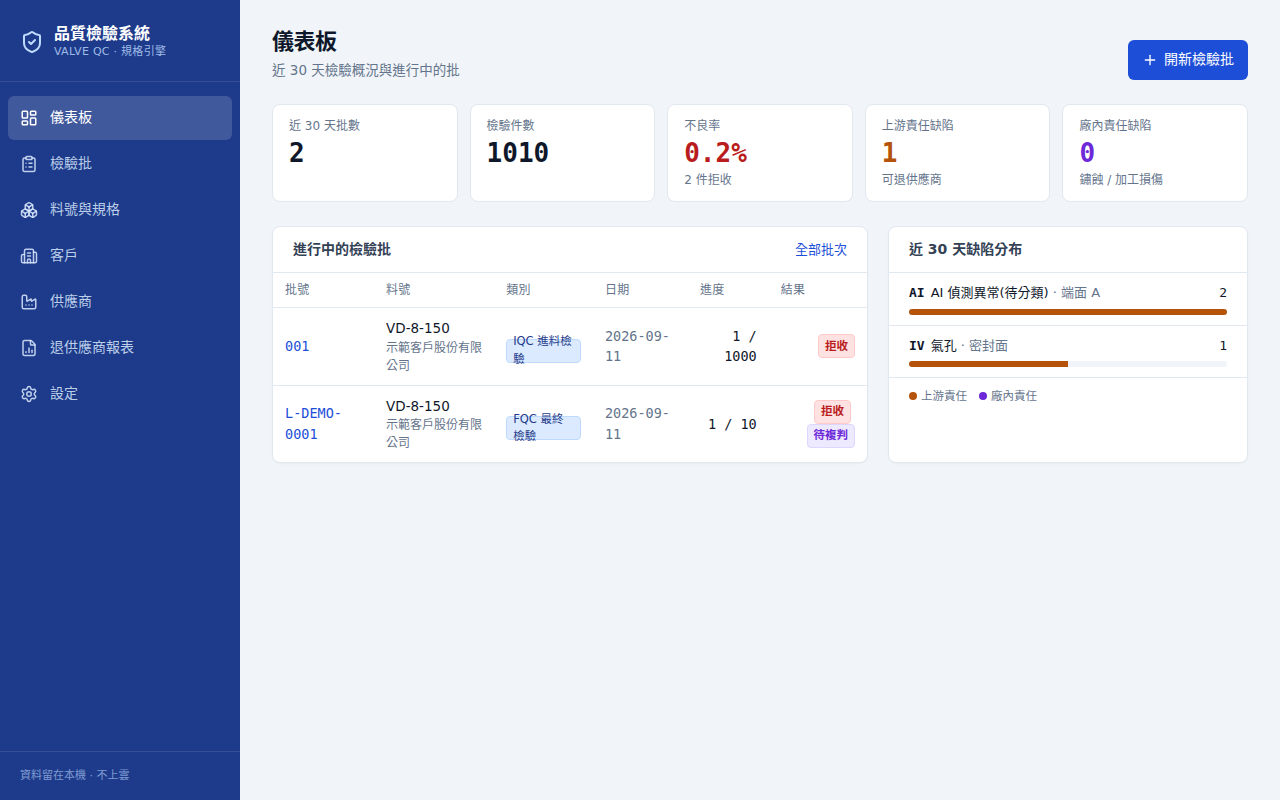
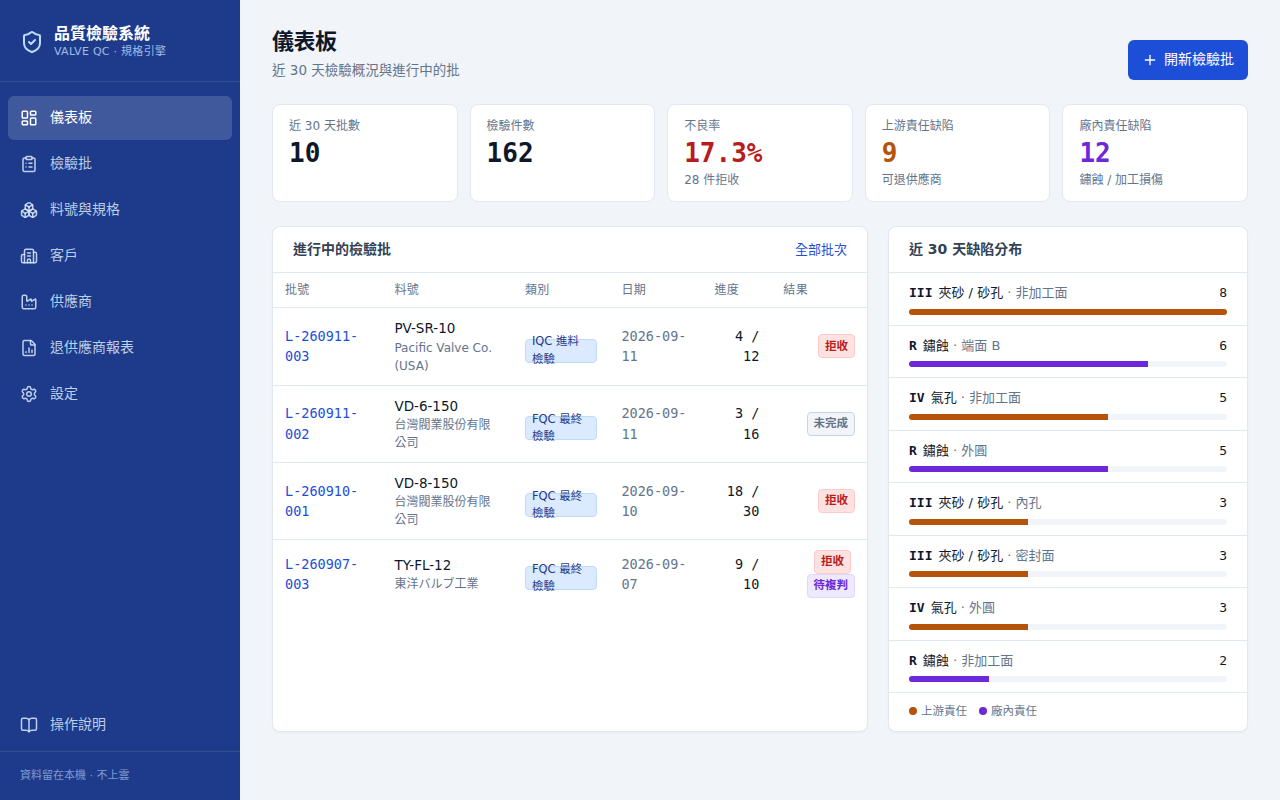
docs(qc-app): 操作說明改寫為真實現場案例走一遍(台灣閥業 8" 閥板 WO-2609-444 30 件 FQC),截圖全部換成示範資料實況
Claude-Session: https://claude.ai/code/session_01GxLmsYzhgxiYHRzKp9SBDz

diff --git a/qc-app/public/manual.html b/qc-app/public/manual.html
@@ -40,6 +40,9 @@
   .flow { display:flex; flex-wrap:wrap; gap:8px; align-items:center; margin:10px 0 }
   .flow span { background:var(--soft); color:var(--brand2); padding:8px 14px; border-radius:8px; font-weight:600 }
   .flow i { color:var(--ink3); font-style:normal }
+  .case { background:#fff7ed; border:1px solid #fed7aa; border-radius:12px; padding:18px 24px; margin:20px 0 }
+  .case h2 { color:#9a3412 } .case table td:first-child { color:var(--ink3); width:32% }
+  .say { border-left:4px solid var(--brand); background:#f8fafc; padding:8px 14px; margin:10px 0; color:var(--ink2); font-size:15px }
   footer { text-align:center; color:var(--ink3); font-size:13px; padding:20px }
   @media (max-width:640px){ section{padding:18px 16px} header{padding:28px 16px} main{padding:8px 12px 60px} }
 </style>
@@ -47,11 +50,11 @@
 <body>
 <header><div class="wrap">
   <h1>品質檢驗系統 操作說明</h1>
-  <p>閥門零件 · 規格引擎 + 檢驗紀錄 + 報告 · 資料留在本機</p>
+  <p>閥門零件 · 規格引擎 + 檢驗紀錄 + 報告 · 資料留在本機 · 以一批真實流程為例逐步說明</p>
 </div></header>
 
 <nav class="toc">
-  <a href="#overview">整體流程</a><a href="#s1">1 第一次使用</a><a href="#s2">2 建料號與規格</a><a href="#s3">3 開檢驗批</a><a href="#s4">4 量尺寸</a><a href="#wear">4.5 看趨勢(刀具磨耗)</a><a href="#s5">5 記外觀</a><a href="#s6">6 判定與結批</a><a href="#s7">7 出報告</a><a href="#s8">8 退供應商</a><a href="#ai">AI 檢測</a><a href="#faq">常見問題</a>
+  <a href="#overview">整體流程</a><a href="#case">本說明的案例</a><a href="#s1">1 第一次使用</a><a href="#s2">2 建料號與規格</a><a href="#s3">3 開檢驗批</a><a href="#s4">4 量尺寸</a><a href="#wear">4.5 看趨勢(刀具磨耗)</a><a href="#s5">5 記外觀</a><a href="#s6">6 判定與結批</a><a href="#s7">7 出報告</a><a href="#s8">8 退供應商</a><a href="#ai">AI 檢測</a><a href="#faq">常見問題</a>
 </nav>
 
 <main>
@@ -59,7 +62,7 @@
   <h2>整體流程</h2>
   <div class="flow"><span>建料號 + 規格</span><i>→</i><span>開檢驗批</span><i>→</i><span>量尺寸</span><i>→</i><span>記外觀</span><i>→</i><span>判定 / 結批</span><i>→</i><span>出報告</span></div>
   <p>左邊選單就是這幾個頁面。<b>料號與規格</b>每個料號只做一次;<b>檢驗批</b>每批做一次。</p>
-  <img class="shot" src="manual/01-dashboard.png" alt="儀表板"><div class="cap">儀表板:近 30 天概況、進行中的批、缺陷分布。</div>
+  <img class="shot" src="manual/01-dashboard.png" alt="儀表板"><div class="cap">儀表板:近 30 天概況、進行中的批、缺陷分布(橘 = 上游鑄造廠責任、紫 = 廠內責任)。</div>
   <h3>判定顏色</h3>
   <table><tr><th>標籤</th><th>意思</th></tr>
   <tr><td><span class="tag ok">允收</span></td><td>合格</td></tr>
@@ -69,70 +72,90 @@
   <tr><td><span class="tag pend">未完成</span></td><td>該量的尺寸還沒量完</td></tr></table>
 </section>
 
+<section id="case" class="case">
+  <h2>本說明的案例:9/10 早班,台灣閥業 8" 閥板 30 件出貨前全檢</h2>
+  <p>底下每一步都用這一批當例子,畫面截圖就是這批的實際狀態。</p>
+  <table>
+    <tr><td>客戶 / 料號</td><td>台灣閥業股份有限公司 · <b>VD-8-150</b> 8" 閥板 Class 150 · 圖面 Rev B · 材質 ASTM A216 WCB</td></tr>
+    <tr><td>鼎新工單 / 採購批</td><td>WO-2609-444 / PO-2608-32</td></tr>
+    <tr><td>毛胚</td><td>大甲鑄造廠 · 爐號 H26103C</td></tr>
+    <tr><td>數量 / 類別</td><td>30 件 · FQC 出貨前全檢</td></tr>
+    <tr><td>檢驗員</td><td>林志豪(車床 #3 加工完下線)</td></tr>
+    <tr><td>批號</td><td>系統自動編 <b>L-260910-001</b></td></tr>
+    <tr><td>這批發生的事</td><td>量到第 18 件:「總厚」整欄往上限飄、2 件超差(刀具磨耗);#3 內孔有 0.57mm 氣孔超過 0.5 上限;#17 非加工面夾砂 1.57mm 超過 1.5 上限 → 這兩件退大甲鑄造廠</td></tr>
+  </table>
+</section>
+
 <section id="s1">
   <h2><span class="n">1</span>第一次使用(只做一次)</h2>
   <div class="who">誰做:品管主管</div>
   <ol class="steps">
     <li>點左邊 <b>設定</b> → 填公司名稱、地址、電話 → 儲存。這會印在報告抬頭上。</li>
-    <li>點 <b>客戶</b> → 右邊「新增客戶」填代號(例如 C001)和名稱 → 新增。</li>
-    <li>點 <b>供應商</b> → 新增上游鑄造廠(退貨報表會依供應商分)。</li>
+    <li>點 <b>客戶</b> → 右邊「新增客戶」:代號 <code>C001</code>、名稱「台灣閥業股份有限公司」→ 新增。備註可以寫這家客戶的脾氣,例如「密封面鑄孔零容忍」。</li>
+    <li>點 <b>供應商</b> → 新增「大甲鑄造廠」「彰化精密鑄造」等上游鑄造廠(退貨報表會依供應商分)。</li>
   </ol>
   <img class="shot" src="manual/02-customers.png" alt="客戶"><div class="cap">客戶頁:左邊清單可直接改,右邊新增。</div>
 </section>
 
 <section id="s2">
   <h2><span class="n">2</span>建料號與允收標準(每個料號一次)</h2>
-  <div class="who">誰做:品管主管,拿著客戶圖面</div>
+  <div class="who">誰做:品管主管,拿著客戶圖面 DWG-VD-8-150 Rev B</div>
   <ol class="steps">
-    <li>點 <b>料號與規格</b> → 右上「新增料號」→ 填客戶、料號、品名、圖號版次、材質、吋數 → 建立。</li>
+    <li>點 <b>料號與規格</b> → 右上「新增料號」→ 客戶選台灣閥業、料號 <code>VD-8-150</code>、品名「8" 閥板 Class 150」、圖號 / 版次、材質、吋數 8 → 建立。</li>
     <li>進到料號頁 → 按「<b>建立第一版</b>」。</li>
-    <li><b>一、尺寸項次</b>:按「新增項次」,照圖面一項一項填:特性名稱、標稱、下公差、上公差、量具、頻率。<br>
-      <b>頻率</b>怎麼選:分厘卡 / 高度規 / 卡尺量的填「<b>每件</b>」;三次元量的填「<b>抽檢</b>」或「<b>首件</b>」。</li>
-    <li><b>二、外觀允收矩陣</b>:一開始全部是「拒收」。依客戶規範,把可以接受的格子勾「允許」,填尺寸上限(mm)和數量上限。<br>
-      例如「外圓 × IV 氣孔」勾允許、≤0.5、×2 = 外圓上 0.5mm 以下的氣孔最多 2 個可接受。<b>密封面通常全部留拒收。</b> → 儲存外觀矩陣。</li>
+    <li><b>一、尺寸項次</b>:按「新增項次」,照圖面一項一項填。以這個料號為例:<br>
+      項次 2「總厚」標稱 38.000、下公差 −0.100、上公差 +0.100、量具 <b>分厘卡</b>、頻率 <b>每件</b>、勾關鍵特性;<br>
+      項次 1「外徑」203.200 ±0.100、量具 <b>三次元</b>、頻率 <b>抽檢</b>;<br>
+      項次 5「軸孔直徑」32.000、下公差 0、上公差 +0.025(單邊)、量具 塞規、每件。<br>
+      <b>頻率</b>怎麼選:分厘卡 / 高度規 / 卡尺量的填「每件」;三次元量的填「抽檢」或「首件」。</li>
+    <li><b>二、外觀允收矩陣</b>:一開始全部是「拒收」。依台灣閥業的規範放寬:<br>
+      「外圓 / 端面 / 內孔 × III 夾砂、IV 氣孔」勾允許、≤ <b>0.5</b> mm、× <b>2</b> 個;<br>
+      「非加工面 × III / IV」允許、≤ <b>1.5</b> mm、× 5;<br>
+      「密封面」整欄留拒收 → 儲存外觀矩陣。</li>
     <li>右上按「<b>生效此版本</b>」。生效後就鎖住不能改。</li>
   </ol>
-  <img class="shot" src="manual/05-spec.png" alt="規格頁"><div class="cap">規格頁:上面尺寸項次,中間外觀矩陣(紅=拒收、綠=允許及上限)。</div>
-  <div class="note"><b>規格要改怎麼辦?</b> 回料號頁按「以現行版本開新版」→ 系統複製一份新草稿 → 改 → 生效。舊的批仍然用舊版判定,報告永遠對得上。</div>
+  <img class="shot" src="manual/05-spec.png" alt="規格頁"><div class="cap">VD-8-150 規格 v2(生效中):上面 13 個尺寸項次,中間外觀矩陣(紅 = 拒收、綠 = 允許及上限)。</div>
+  <img class="shot" src="manual/04-part.png" alt="料號頁"><div class="cap">料號頁的版本歷史:v1 已停用、v2 生效中。8 月客戶圖面改 Rev B 收緊總厚公差,就是「開新版 → 改 → 生效」做的。</div>
+  <div class="note"><b>規格要改怎麼辦?</b> 回料號頁按「以現行版本開新版」→ 系統複製一份新草稿 → 改 → 生效。8 月之前的批仍然用 v1 判定,報告永遠對得上。</div>
   <div class="tip"><b>提示:</b>外觀矩陣不用一次填完 84 格。先認真定「III 夾砂、IV 氣孔、R 鏽蝕」在各區域的上限,其他留拒收。沒定義到的情況系統會標「待複判」由人判,之後再開新版補進去。</div>
 </section>
 
 <section id="s3">
   <h2><span class="n">3</span>開檢驗批(每批一次)</h2>
-  <div class="who">誰做:檢驗員</div>
+  <div class="who">誰做:檢驗員林志豪,車床 #3 下線後</div>
   <ol class="steps">
     <li>點 <b>檢驗批</b> → 右上「開新檢驗批」。</li>
-    <li>選料號、檢驗類別(出貨前全檢選 <b>FQC</b>)、數量。</li>
-    <li>填鼎新工單號、採購批號、毛胚供應商、爐號、檢驗員(之後報告和退貨都靠這些)。</li>
-    <li>按「建立批並開始檢驗」。</li>
+    <li>料號選 <code>C001 · VD-8-150</code>、類別 <b>FQC 最終檢驗</b>、數量 <b>30</b>。</li>
+    <li>從鼎新工單抄:工單號 <code>WO-2609-444</code>、採購批 <code>PO-2608-32</code>;毛胚供應商選大甲鑄造廠、爐號 <code>H26103C</code>(看鑄件上的爐號打印或材證);檢驗員填自己。</li>
+    <li>批號留空 → 系統自動編 <b>L-260910-001</b>(L-年月日-流水號)。按「建立批並開始檢驗」。</li>
   </ol>
-  <img class="shot" src="manual/06-lot-new.png" alt="開新檢驗批">
-  <div class="tip"><b>擺件:</b>零件依序排好,#1 ~ #N 對應實體順序,量到一半才不會亂。有刻字的可以在件面板填序號。</div>
+  <img class="shot" src="manual/06-lot-new.png" alt="開新檢驗批"><div class="cap">填好的樣子。這些欄位之後會印在報告上、也是退大甲鑄造廠時的證據(採購批 + 爐號)。</div>
+  <div class="tip"><b>擺件:</b>30 件依序排在檢驗台上,#1 ~ #30 對應實體順序,量到一半才不會亂。有刻字的可以在件面板填序號。</div>
 </section>
 
 <section id="s4">
   <h2><span class="n">4</span>量尺寸</h2>
   <div class="who">誰做:檢驗員</div>
-  <img class="shot" src="manual/07-grid.png" alt="量測表格"><div class="cap">每一列是一件,每一欄是一個尺寸項次。綠=合格、黃=警戒、紅=超差。</div>
+  <img class="shot" src="manual/07-grid.png" alt="量測表格"><div class="cap">L-260910-001 量到第 18 件的樣子。每一列是一件,每一欄是一個「每件」項次:總厚(分厘卡)、密封面高度(高度規)、軸孔直徑(塞規)、鍵槽寬(卡尺)…。綠 = 合格、黃 = 警戒、紅 = 超差。</div>
   <ol class="steps">
-    <li>拿起一支量具(例如分厘卡),點該項次第一格(#1)。</li>
-    <li>量 #1 → 藍牙量具按傳送鍵(或手打數字)→ <kbd>Enter</kbd> → 游標<b>自動跳到 #2</b>。</li>
-    <li>一路量到最後一件 → 游標自動跳到下一個項次的第一格 → 換量具。</li>
-    <li>三次元量的項目不在這裡打,三次元報告先歸檔;想手填就勾右上「顯示抽檢 / 首件項次」。</li>
+    <li>拿起<b>分厘卡</b>,點「2. 總厚」的第一格(#1)。</li>
+    <li>量 #1 → 藍牙分厘卡按 DATA 鍵(或手打 <code>38.051</code>)→ <kbd>Enter</kbd> → 游標<b>自動跳到 #2</b>。</li>
+    <li>一路量到 #30 → 游標自動跳到「4. 密封面高度」的 #1 → 放下分厘卡,換<b>高度規</b>。</li>
+    <li>三次元量的項目(外徑、內孔直徑、PCD…)不在這裡打,三次元報告先歸檔;想手填就勾右上「顯示抽檢 / 首件項次」。</li>
   </ol>
+  <div class="say">林志豪量到 #5 打了 38.107,格子變紅 — 超過上限 38.100。不用停下來,先量完,紅的件系統已經記住是「拒收」。</div>
   <h3>逐項 vs 逐件(右上切換)</h3>
-  <table><tr><th>逐項(預設)</th><td>同一支量具量完全部件再換下一項。換量具次數最少,最快。</td></tr>
-  <tr><th>逐件</th><td>一件量完所有項次再換下一件。零件很大、搬動麻煩時用。</td></tr></table>
+  <table><tr><th>逐項(預設)</th><td>同一支量具量完全部件再換下一項。30 件 × 6 個每件項次 = 只換 6 次量具,最快。</td></tr>
+  <tr><th>逐件</th><td>一件量完所有項次再換下一件。14" Disc 這種很重、搬一次很累的用這個。</td></tr></table>
   <div class="note"><b>藍牙量具(三豐):</b>接收器 U-WAVE-R 插電腦 USB,用 U-WAVEPAK 設成 Keyboard 模式、資料後加 Enter(設一次)。之後量具按 DATA 鍵 = 自動打字 + Enter,系統不用任何設定。游標在哪格,值就進哪格。</div>
   <div class="tip"><b>打錯:</b>回到那格改掉再按 Enter 就覆蓋。想清空就刪掉內容按 Enter。<kbd>↑</kbd><kbd>↓</kbd> 可以在同一欄上下移動。</div>
 </section>
-
-
 <section id="wear">
   <h2><span class="n">4.5</span>看趨勢:刀具磨耗的例子</h2>
   <div class="who">誰看:檢驗員量的時候就會看到;品管 / 加工主管每天掃一眼</div>
+  <div class="say">還是這一批。林志豪量完總厚整欄,發現 18 件裡 #2 黃、#5 #7 紅,其他全部落在 38.05~38.09 — 都往上限靠。他把畫面拿給車床 #3 的師傅看:「刀該補了。」</div>
   <p>黃色「警戒」的意思是<b>合格,但已經用掉 80% 公差</b>。單一格黃沒關係;<b>整欄變黃、而且數值都往同一邊偏</b>,就是機台在告訴你:刀具磨耗或熱變形,再不處理下一批就會紅。</p>
-  <img class="shot" src="manual/14-wear-grid.png" alt="刀具磨耗範例"><div class="cap">示範批 L-260910-001(8" 閥板):「總厚」標稱 38.000 ±0.100,整欄都落在 38.05~38.09,往上限靠;#5、#7 已經超差變紅。「密封面高度」同樣一整欄黃。這不是量錯,是車床那把刀磨耗,每件越車越厚。</div>
+  <img class="shot" src="manual/14-wear-grid.png" alt="刀具磨耗範例"><div class="cap">L-260910-001:「總厚」標稱 38.000 ±0.100,整欄都落在 38.05~38.09,往上限靠;#5、#7 已經超差變紅。「密封面高度」同樣一整欄黃。這不是量錯,是車床那把刀磨耗,每件越車越厚。</div>
   <h3>怎麼讀</h3>
   <table>
     <tr><th style="width:34%">看到什麼</th><th>代表</th><th>做什麼</th></tr>
@@ -150,54 +173,62 @@
 <section id="s5">
   <h2><span class="n">5</span>記外觀(有缺陷才記)</h2>
   <div class="who">誰做:檢驗員,目視 / 放大鏡看六個區域</div>
+  <div class="say">#3 翻過來看內孔,放大鏡下有一個小氣孔。拿針規比對約 0.57mm。</div>
   <ol class="steps">
-    <li>點件號(例如 <b>#3</b>)→ 右邊滑出「件面板」。</li>
-    <li>點 <b>區域</b>(密封面 / 端面 A / 端面 B / 外圓 / 內孔 / 非加工面)。</li>
-    <li>點 <b>缺陷類型</b>(常見的:III 夾砂、IV 氣孔、R 鏽蝕)。</li>
-    <li>填尺寸 mm、數量、時鐘方位(1~12 點鐘,選填)。</li>
-    <li>按「拍照」用平板 / 手機相機拍下來(選填)。</li>
-    <li>看紅色 / 綠色的「引擎預判」→ 按「加入發現」。</li>
+    <li>點件號 <b>#3</b> → 右邊滑出「件面板」。</li>
+    <li>點區域 <b>內孔</b>。</li>
+    <li>點缺陷類型 <b>IV 氣孔</b>。</li>
+    <li>尺寸填 <code>0.57</code>、數量 1、時鐘方位 8(從標記點順時針看大約 8 點鐘位置)。責任預設「上游」不用改。</li>
+    <li>按「拍照」用平板相機拍下來(之後退大甲鑄造廠要用)。</li>
+    <li>看「引擎預判」:<span class="tag ng">拒收</span> — 內孔氣孔上限 0.5mm,0.57 超過 → 按「加入發現」。件 #3 立刻變拒收。</li>
   </ol>
-  <img class="shot" src="manual/08-panel.png" alt="件面板"><div class="cap">件面板:上半是這件的尺寸,下半記外觀。「引擎預判」會先告訴你這筆依規格是允收還是拒收。</div>
-  <div class="note">沒有缺陷的件<b>不用做任何事</b>,尺寸量完就自動判允收。責任歸屬預設:鑄造缺陷(I~XII)= 上游,鏽蝕 / 加工損傷 = 廠內,可以改。</div>
+  <img class="shot" src="manual/08-panel.png" alt="件面板"><div class="cap">#3 的件面板:上半是這件 13 個尺寸的量測狀況,下半「外觀發現」已有那筆 0.57mm 氣孔,判拒收、責任上游。</div>
+  <div class="say">#17 非加工面有一塊夾砂,量起來 1.57mm。規格非加工面上限 1.5 → 也是拒收。#11 外圓有一小片鏽,量測前先看的沒發現,應該是加工後停放幾天長的 → 缺陷選 <b>R 鏽蝕</b>、責任改「<b>廠內</b>」、備註「加工後停放 6 天」。</div>
+  <div class="note">沒有缺陷的件<b>不用做任何事</b>,尺寸量完就自動判允收。責任歸屬預設:鑄造缺陷(I~XII)= 上游,鏽蝕 / 加工損傷 = 廠內,可以改。鏽蝕的備註很重要 — 累積幾個月就知道鏽是哪個站、哪個季節長出來的。</div>
 </section>
 
 <section id="s6">
   <h2><span class="n">6</span>判定與結批</h2>
   <div class="who">誰做:檢驗員 → 品管主管</div>
+  <h3>待複判的件</h3>
+  <div class="say">另一批 12" 法蘭(L-260907-003)的 #4 內孔有一道皺皮(VII),規格矩陣沒定義「內孔 × VII」→ 系統標<span class="tag rev">待複判</span>。品管主管對照 SP-55 比對板後判允收,理由寫「對照比對板 Level 2,可接受」。</div>
+  <img class="shot" src="manual/09-review.png" alt="人工覆判"><div class="cap">件面板最下面「人工覆判」:填理由 → 判允收 / 判拒收。與引擎不同時一定要填理由,會留稽核紀錄。</div>
   <ol class="steps">
     <li><b>待複判</b>的件一定要由人判:開件面板 → 最下面「人工覆判」→ 填理由 → 判允收或判拒收。</li>
-    <li><b>拒收</b>的件選處置:報廢 / 重工 / 退回供應商 / 特採(件面板右上)。</li>
-    <li>所有件都是允收或拒收後 → 批頁最下面「結批」→ 選批結論(允收 / 拒收 / 特採)→ 結批並鎖定。</li>
+    <li><b>拒收</b>的件選處置(件面板右上):#3、#17 鑄造缺陷 → <b>退回供應商</b>;#5、#7 總厚超差 → <b>重工</b>(車薄一點還救得回來)。</li>
+    <li>30 件都是允收或拒收後 → 批頁最下面「結批」→ 批結論選 <b>允收</b>(26 件出貨,4 件另處理)→ 結批並鎖定。</li>
   </ol>
-  <img class="shot" src="manual/10-close.png" alt="結批"><div class="cap">批頁下方:左邊批資料(鼎新工單等)、右邊結批。</div>
+  <img class="shot" src="manual/10-close.png" alt="結批"><div class="cap">批頁下方:左邊批資料(鼎新工單、供應商、爐號可補改)、右邊結批。</div>
   <div class="tip"><b>結批後欄位灰掉不能改?</b> 這是正常的(鎖定)。要補資料按「重開此批」。</div>
 </section>
 
 <section id="s7">
   <h2><span class="n">7</span>出報告</h2>
+  <div class="who">誰做:檢驗員結批後,或業務出貨前</div>
   <ol class="steps">
     <li>批頁右上「<b>檢驗報告</b>」。</li>
-    <li>右上「列印 / 存 PDF」→ 印表機選「另存為 PDF」→ 就是給客戶的出貨檢驗報告。</li>
+    <li>右上「列印 / 存 PDF」→ 印表機選「另存為 PDF」→ 檔案就是給台灣閥業的出貨檢驗報告,隨貨附上。</li>
   </ol>
-  <img class="shot" src="manual/11-report.png" alt="檢驗報告"><div class="cap">A4 報告:基本資料、結果摘要、尺寸統計(含 Cpk)、外觀分類(MSS SP-55)、拒收件明細、簽核欄、逐件附錄。</div>
+  <img class="shot" src="manual/11-report.png" alt="檢驗報告"><div class="cap">同料號 8/28 已結批的報告(L-260828-003,24 件允收):抬頭、基本資料(含鼎新工單、爐號、規格版本)、結果摘要、13 項尺寸統計含 Cpk、外觀分類(MSS SP-55)、拒收件明細與處置、三欄簽核、逐件附錄。</div>
 </section>
 
 <section id="s8">
   <h2><span class="n">8</span>退供應商報表(每月)</h2>
-  <div class="who">誰做:品管主管</div>
+  <div class="who">誰做:品管主管,月初</div>
+  <div class="say">9 月要跟大甲鑄造廠對帳。點退供應商報表 → 選 2026-09 → 這個月判拒收、責任在上游的全部列出來:哪一批、哪個採購批、哪個爐號、第幾件、什麼缺陷、多大、照片。</div>
   <ol class="steps">
     <li>點 <b>退供應商報表</b> → 用 ‹ › 選月份。</li>
-    <li>系統列出當月「拒收 + 責任在上游」的所有缺陷,依供應商分,附照片、採購批、爐號。</li>
+    <li>系統依供應商分好,附照片、採購批、爐號。</li>
     <li>列印 → 跟上游談退貨 / 扣款的證據。</li>
   </ol>
-  <img class="shot" src="manual/12-returns.png" alt="退供應商報表">
+  <img class="shot" src="manual/12-returns.png" alt="退供應商報表"><div class="cap">2026-09:大甲鑄造廠 3 筆(含 L-260910-001 的 #3 內孔氣孔 0.57mm、#17 夾砂 1.57mm)、越南 Thanh Long 1 筆。</div>
 </section>
 
 <section id="ai">
   <h2>AI 外觀檢測(第 1 期,選用)</h2>
   <p>AI 負責「看」,規則負責「判」,人負責「確認例外」。AI 抓到異常的件會自動變成「待複判」,附熱圖,人點開確認。</p>
-  <img class="shot" src="manual/09-ai.png" alt="AI 發現"><div class="cap">AI 帶進來的發現:縮圖是熱圖(紅色 = 不像正常的地方),類型先標「AI 偵測異常(待分類)」,由人改成真正的缺陷類型。</div>
+  <div class="say">12" 法蘭那批(L-260907-003)拍照後跑 AI,#7 端面 A 被標出一塊 1.2mm 的異常。檢驗員點開熱圖一看,是一個氣孔 → 把類型從「AI 偵測異常」改成 IV 氣孔,系統依規格判拒收。</div>
+  <img class="shot" src="manual/09-ai.png" alt="AI 發現"><div class="cap">AI 帶進來的發現:縮圖是熱圖(紅色 = 不像正常的地方),類型先標「AI 偵測異常(待分類)」,由人改成真正的缺陷類型。(示範資料用的是公開資料集的金屬件圖,換成你們零件的照片後就是閥板。)</div>
   <ol class="steps">
     <li>開批後,零件放治具,用固定位置的手機 / 相機拍每一件,檔名 <code>01.jpg</code>、<code>02.jpg</code>… = 件號。</li>
     <li>在電腦跑 <code>infer.py</code>(資料夾)→ <code>push_to_qc.py</code>(送進該批)。詳細在 <code>aoi/README.md</code>。</li>
@@ -214,11 +245,13 @@
     <tr><td>料號下拉是空的</td><td>同上,或還沒建料號</td></tr>
     <tr><td>量測格灰掉打不進去</td><td>批已結批,按「重開此批」</td></tr>
     <tr><td>結批按了沒反應,說還有幾件未完成</td><td>有件的「每件」尺寸沒量完,或有待複判件沒人判。看件號旁的標籤</td></tr>
+    <tr><td>整欄黃色</td><td>不是量錯,是刀具磨耗 / 熱變形,見 4.5</td></tr>
     <tr><td>待複判太多</td><td>外觀矩陣很多組合沒定義。開新版規格把常見組合定清楚</td></tr>
     <tr><td>報告抬頭是「請至設定填入公司名稱」</td><td>設定頁填公司名稱</td></tr>
     <tr><td>怎麼備份</td><td>複製整個 <code>qc-app/data/</code> 資料夾(裡面是資料庫 + 照片)</td></tr>
     <tr><td>平板也能用嗎</td><td>可以,同一個 Wi-Fi,瀏覽器開 <code>http://電腦IP:3000</code>;拍照按鈕會直接開相機</td></tr>
     <tr><td>要重新啟動系統</td><td>在 qc-app 資料夾執行 <code>pnpm start</code></td></tr>
+    <tr><td>示範資料要清掉</td><td>在 qc-app 資料夾執行 <code>pnpm db:seed</code>(會清空,只留一個空的示範料號)</td></tr>
   </table>
 </section>
 </main>
